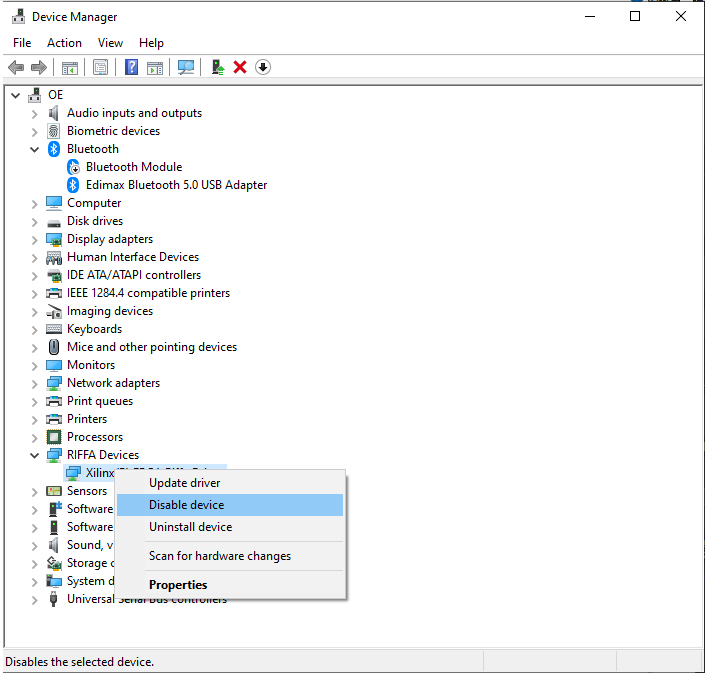
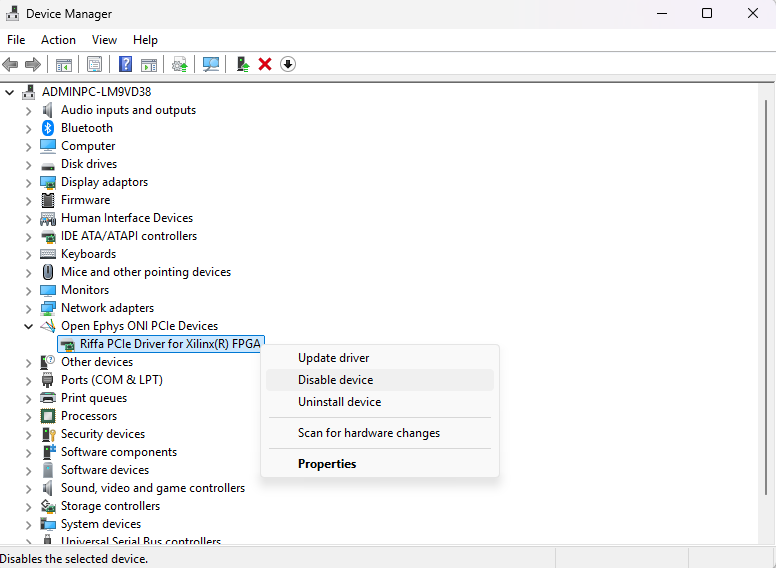
Fix details in fw update page (#115)

Changed region(s): [[0.0, 0.0, 1.0, 1.0]]

diff --git a/source/Resources/downloads.rst b/source/Resources/downloads.rst
@@ -13,16 +13,13 @@ Downloads
     from source. See compilation instructions in the `Makefile
     <https://github.com/open-ephys/liboni/blob/main/api/liboni/oni-repl/Makefile>`__.
 
-.. list-table:: oni-repl Windows downloads
+.. list-table::
    :widths: 15 25 60
    :header-rows: 1
 
    * - Version
      - Release Date
      - Release Notes
-   * - :download:`1.0.0 <../_static/downloads/onix-software-releases/oni-repl-x64_v1.0.0.zip>`
-     - 2022.11.27
-     - Initial release.
    * - :download:`1.1.0 <../_static/downloads/onix-software-releases/oni-repl-x64_v1.1.0.zip>`
      - 2025.06.25
      - Fixes to hardware reset behavior. Addition of several command line
@@ -30,15 +27,15 @@ Downloads
 
 .. _riffa_driver_download:
 
-RIFFA Device Driver
+RIFFA PCIe Driver
 ----------------------------------------------
 
-.. note:: Please see :ref:`Install Device Driver <install_riffa>` 
+.. note:: Please see :ref:`Install RIFFA PCIe Driver <install_riffa>` 
     for instructions on how to use this file. When
     using mac or linux, you will need to compile from `source
     <https://github.com/open-ephys/liboni>`__.
 
-.. list-table:: RIFFA PCIe driver
+.. list-table::
    :widths: 15 25 60
    :header-rows: 1
 
@@ -49,7 +46,6 @@ RIFFA Device Driver
      - 2024.03.14
      - Fix race condition in the RIFFA kernel driver for windows.
 
-.. _pcie_host_updater_download:
 
 PCIe Host Firmware
 ----------------------------------------------
@@ -59,13 +55,13 @@ PCIe Host Firmware
    When using mac or linux, you will need to compile the Updater software from
    `source <https://github.com/open-ephys/onix-gateware-field-updaters>`__.
 
-.. _pcie_host_image_download:
+.. _pcie_host_updater_download:
 
 PCIe Host Upload Tool
 ______________________________________________
-Software for uploading bitfiles to hardware.
+Software for uploading PCIe Host firmware to PCIe Host hardware.
 
-.. list-table:: PCIe Host upload tool
+.. list-table::
    :widths: 15 25 60
    :header-rows: 1
 
@@ -76,9 +72,9 @@ Software for uploading bitfiles to hardware.
      - 2022.11.27
      - Initial release.
 
------------------
+.. _pcie_host_image_download:
 
-PCIe Controller Bitfiles
+PCIe Host Firmware Images
 ______________________________________________
 
 .. warning::
@@ -90,21 +86,21 @@ ______________________________________________
 .. table::
     :widths: 30 70
 
-    +-------------------------------------------------------+----------------------------------------------------------------------------------------------------------------+
-    |            PCIe Host Hardware version                 |                            PCIe Host Firmware latest version                                                   |
-    |               as reported by `oni-repl`               |                                   to download and update                                                       |
-    +=======================================================+================================================================================================================+
-    | Hardware Revision 1.4                                 | Deprecated. Please :ref:`get in touch <support>` so we can assist you.                                         |
-    +-------------------------------------------------------+----------------------------------------------------------------------------------------------------------------+
-    | Hardware Revision 1.5                                 | | :download:`Firmware version 2.0D <../_static/downloads/onix-gateware-images/onix-host-v2.0-update-revD.bin>` |
-    |                                                       | | Requires OpenEphys.Onix1 v0.6+ or Open Ephys GUI v1.0+                                                       |
-    +-------------------------------------------------------+----------------------------------------------------------------------------------------------------------------+
-    | Hardware Revision 1.6                                 | | :download:`Firmware version 2.0F <../_static/downloads/onix-gateware-images/onix-host-v2.0-update-revF.bin>` |
-    |                                                       | | Requires OpenEphys.Onix1 v0.6+ or Open Ephys GUI v1.0+                                                       |
-    +-------------------------------------------------------+----------------------------------------------------------------------------------------------------------------+
+    +-------------------------------------------------------------------+----------------------------------------------------------------------------------------------------------------+
+    | | PCIe Host Hardware version                                      | | Latest PCIe Host                                                                                             |
+    | | per :ref:`oni-repl <controller_version_difference>`             | | firmware version                                                                                             |
+    +===================================================================+================================================================================================================+
+    | Hardware Revision 1.4                                             | Deprecated. Please :ref:`get in touch <support>` so we can assist you.                                         |
+    +-------------------------------------------------------------------+----------------------------------------------------------------------------------------------------------------+
+    | Hardware Revision 1.5                                             | | :download:`Firmware version 2.0D <../_static/downloads/onix-gateware-images/onix-host-v2.0-update-revD.bin>` |
+    |                                                                   | | Requires OpenEphys.Onix1 v0.6+ or Open Ephys GUI v1.0+                                                       |
+    +-------------------------------------------------------------------+----------------------------------------------------------------------------------------------------------------+
+    | Hardware Revision 1.6                                             | | :download:`Firmware version 2.0F <../_static/downloads/onix-gateware-images/onix-host-v2.0-update-revF.bin>` |
+    |                                                                   | | Requires OpenEphys.Onix1 v0.6+ or Open Ephys GUI v1.0+                                                       |
+    +-------------------------------------------------------------------+----------------------------------------------------------------------------------------------------------------+
 
 
-.. .. list-table:: PCIe Host Revision 1.4 firmware images
+.. .. list-table::
 ..    :widths: 15 25 60
 ..    :header-rows: 1
 ..
@@ -126,11 +122,11 @@ Breakout Board Firmware
 
 .. _breakout_updater_download:
 
-Breakout Board Upload Software
+Breakout Board Upload Tool
 ______________________________________________
-Software for uploading bitfiles to hardware.
+Software for uploading Breakout Board firmware to Breakout Board hardware.
 
-.. list-table:: Breakout Board firmware upload tool
+.. list-table::
    :widths: 15 25 60
    :header-rows: 1
 
@@ -141,11 +137,9 @@ Software for uploading bitfiles to hardware.
      - 2024.07.05
      - Initial release.
 
------------------
-
 .. _breakout_image_download:
 
-Breakout Board Bitfiles
+Breakout Board Firmware Images
 ______________________________________________
 
 .. warning::
@@ -157,12 +151,12 @@ ______________________________________________
 .. table::
     :widths: 40 60
 
-    +-------------------------------------------------------+-------------------------------------------------------------------------------------------------------------+
-    |            Breakout Board Hardware version            |                             Breakout Board Firmware latest version                                          |
-    |                 as per product specs                  |                                   to download and update                                                    |
-    +=======================================================+=============================================================================================================+
-    | Hardware Revision 1.5  (four headstage ports)         | :download:`Firmware version 1.3 <../_static/downloads/onix-gateware-images/breakout-rev1.5-fw1.3.bin>`      |
-    +-------------------------------------------------------+-------------------------------------------------------------------------------------------------------------+
-    | Hardware Revision 1.6  (two headstage ports)          | :download:`Firmware version 1.3 <../_static/downloads/onix-gateware-images/breakout-rev1.6-fw1.3.bin>`      |
-    +-------------------------------------------------------+-------------------------------------------------------------------------------------------------------------+
+    +--------------------------------------------------------------+-------------------------------------------------------------------------------------------------------------+
+    | | Breakout Board Hardware version                            | | Latest Breakout Board                                                                                     |
+    | | per :ref:`visual inspection <breakout_version_difference>` | | firmware version                                                                                          |
+    +==============================================================+=============================================================================================================+
+    | Hardware Revision 1.5  (four headstage ports)                | :download:`Firmware version 1.3 <../_static/downloads/onix-gateware-images/breakout-rev1.5-fw1.3.bin>`      |
+    +--------------------------------------------------------------+-------------------------------------------------------------------------------------------------------------+
+    | Hardware Revision 1.6  (two headstage ports)                 | :download:`Firmware version 1.3 <../_static/downloads/onix-gateware-images/breakout-rev1.6-fw1.3.bin>`      |
+    +--------------------------------------------------------------+-------------------------------------------------------------------------------------------------------------+
 

diff --git a/source/Hardware Guide/PCIe Host/updating-firmware.rst b/source/Hardware Guide/PCIe Host/updating-firmware.rst
@@ -15,6 +15,8 @@ Updating Firmware in Windows
    .. note:: For a complete description of this program, have a look at its
         :ref:`usage guide <oni_repl>`
 
+..  _controller_version_difference:
+
 #. Verify your PCIe Host Hardware version by running ``oni-repl`` and typing "H"
    into the command prompt. This will print a list of all hubs in the current
    ONI context, one of which will be the PCIe Host.
@@ -30,7 +32,7 @@ Updating Firmware in Windows
    .. figure:: /_static/images/pcie-host/oni-repl-host-hardware-version.png
         :align: center
 
-#. Download the latest :ref:`pcie_host_image_download` for your hardware
+#. Download the latest :ref:`PCIe Host Firmware Image <pcie_host_image_download>` for your hardware
    version. 
 
    .. warning::
@@ -51,14 +53,13 @@ Updating Firmware in Windows
         :align: center
 
 #. Open the Windows Device Manager by typing "device manager" into the windows
-   search bar.Find the RIFFA device you are going to update in the device tree.
-   Right click on the RIFFA device and select inactivate.
+   search bar. Find the RIFFA device you are going to update in the device tree. It is listed under "Open Ephys ONI PCIe Devices". Right click on the RIFFA device and select Disable device. Click Yes on the warning message.
 
    .. figure:: /_static/images/pcie-host/device-manager-disable-riffa.png
         :align: center
         :width: 80%
 
-#. Right click again and click activate
+#. Right click again and click Enable device.
 
    .. figure:: /_static/images/pcie-host/device-manager-enable-riffa.png
         :align: center
@@ -91,7 +92,7 @@ Updating Firmware in Windows
    .. figure:: /_static/images/pcie-host/oni-pcie-change-mode-to-normal.png
         :align: center
 
-#. Repeat steps 7 and 8 to reactivate the PCIe Host with the updated
+#. Repeat steps 7 and 8 to reenable the PCIe Host with the updated
    firmware.  
 
 #. To verify the firmware update, repeat step 3. The firmware version of the

diff --git a/source/Hardware Guide/PCIe Host/setup-windows.rst b/source/Hardware Guide/PCIe Host/setup-windows.rst
@@ -101,17 +101,17 @@ will need to install `Microsoft Visual C++ Redistributable for Visual Studio
 
 .. _install_riffa:
 
-Install Device Driver
+Install RIFFA PCIe Driver
 ---------------------------------------
 
 .. warning:: Pre-built drivers target 64-bit Windows 10. Other targets will
     need to be compiled from source.
 
-#. Download the :ref:`latest riffa driver <riffa_driver_download>` and unzip
+#. Download the :ref:`latest RIFFA PCIe driver <riffa_driver_download>` and unzip
    the archive.
 #. In the extracted folder, right click the **riffa.inf** file.  Select
    **install** from the context menu.
-#. Open the start menu and type **device manager** and click to open. You shoul
+#. Open the start menu and type **device manager** and click to open. You should
    see **RIFFA** in the device tree.
 
    .. figure:: /_static/images/pcie-host-windows/package-manager-riffa.png

diff --git a/source/Hardware Guide/Breakout Board/updating-breakout-firmware.rst b/source/Hardware Guide/Breakout Board/updating-breakout-firmware.rst
@@ -15,6 +15,8 @@ Updating Breakout Board Firmware in Windows
 
 #. Connect a USB-microUSB from the PC you will use to perform the firmware update to the Config port on the side of the breakout board.
 
+..  _breakout_version_difference:
+
 #. Verify the Breakout Board version by looking at the specifications on the product.
 
    .. figure:: /_static/images/breakout/breakout_1r5_fw.png
